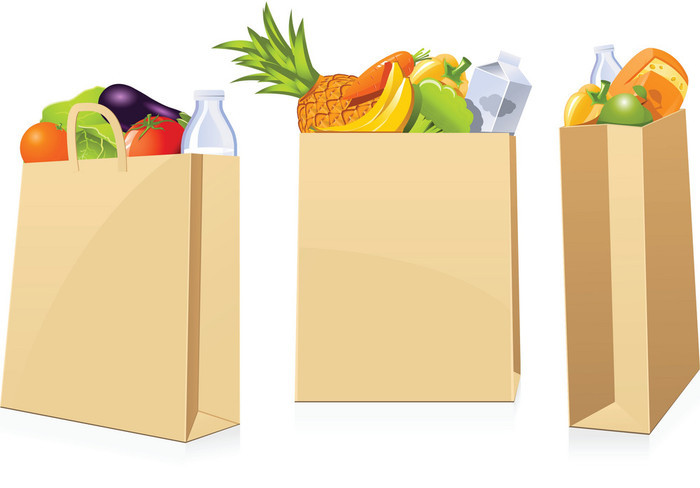
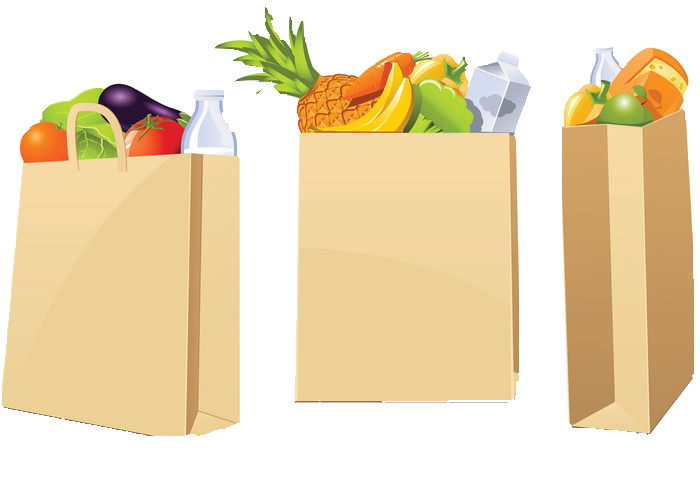
picture transparency

diff --git a/shopanon/templates/shop/home.html b/shopanon/templates/shop/home.html
@@ -106,7 +106,7 @@
     <div class="row">
       <div class="col-12">
         <div class="border-bottom">
-        <center><img src="{{MEDIA_URL}}images/cart.jpg" style="margin:auto; width:200px;display:inline" /></center>
+        <center><img src="{{MEDIA_URL}}images/cart.png" style="margin:auto; width:200px;display:inline" /></center>
 
         <h2>Sign Up to Shop</h2>
         <p>Ready to shop for groceries? Sign up now and get started today!</p>
@@ -135,7 +135,7 @@
     <div class="row">
       <div class="col-12">
       <div class="border-bottom">
-        <center><img src="{{MEDIA_URL}}images/profile.jpg" style="margin:auto; width:200px;display:inline" /></center>
+        <center><img src="{{MEDIA_URL}}images/profile.png" style="margin:auto; width:200px;display:inline" /></center>
 
         <h2>View Profile</h2>
         <p>Check Order Status, View Old Orders, Manage Account, Become a Driver! </p>
@@ -145,7 +145,7 @@
       </br>
       </div>
       <div class="col-12">
-        <center><img src="{{MEDIA_URL}}images/grocery_bags.jpg" style="margin:auto; width:200px;display:inline" /></center>
+        <center><img src="{{MEDIA_URL}}images/grocery_bags.png" style="margin:auto; width:200px;display:inline" /></center>
 
         <h2>Start Shopping</h2>
         <p>Need groceries? Time to go on a grocery run? Go ahead and get started shopping here!</p>
